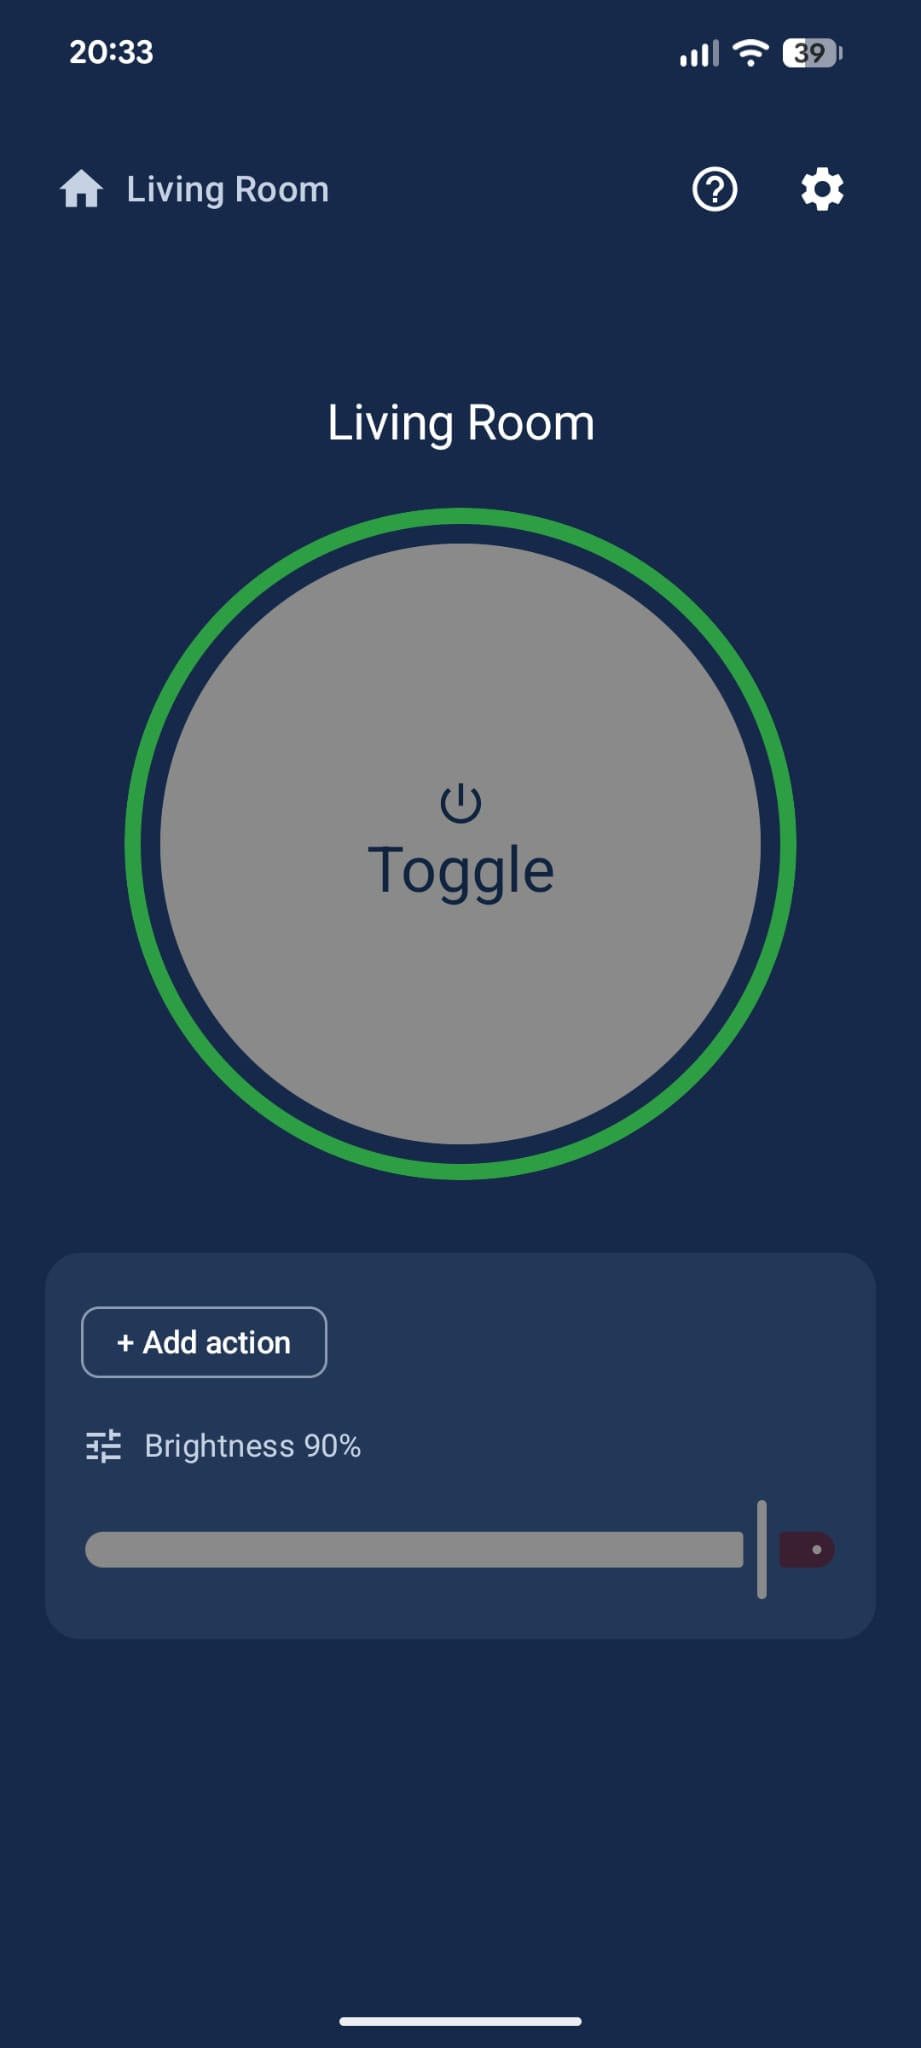
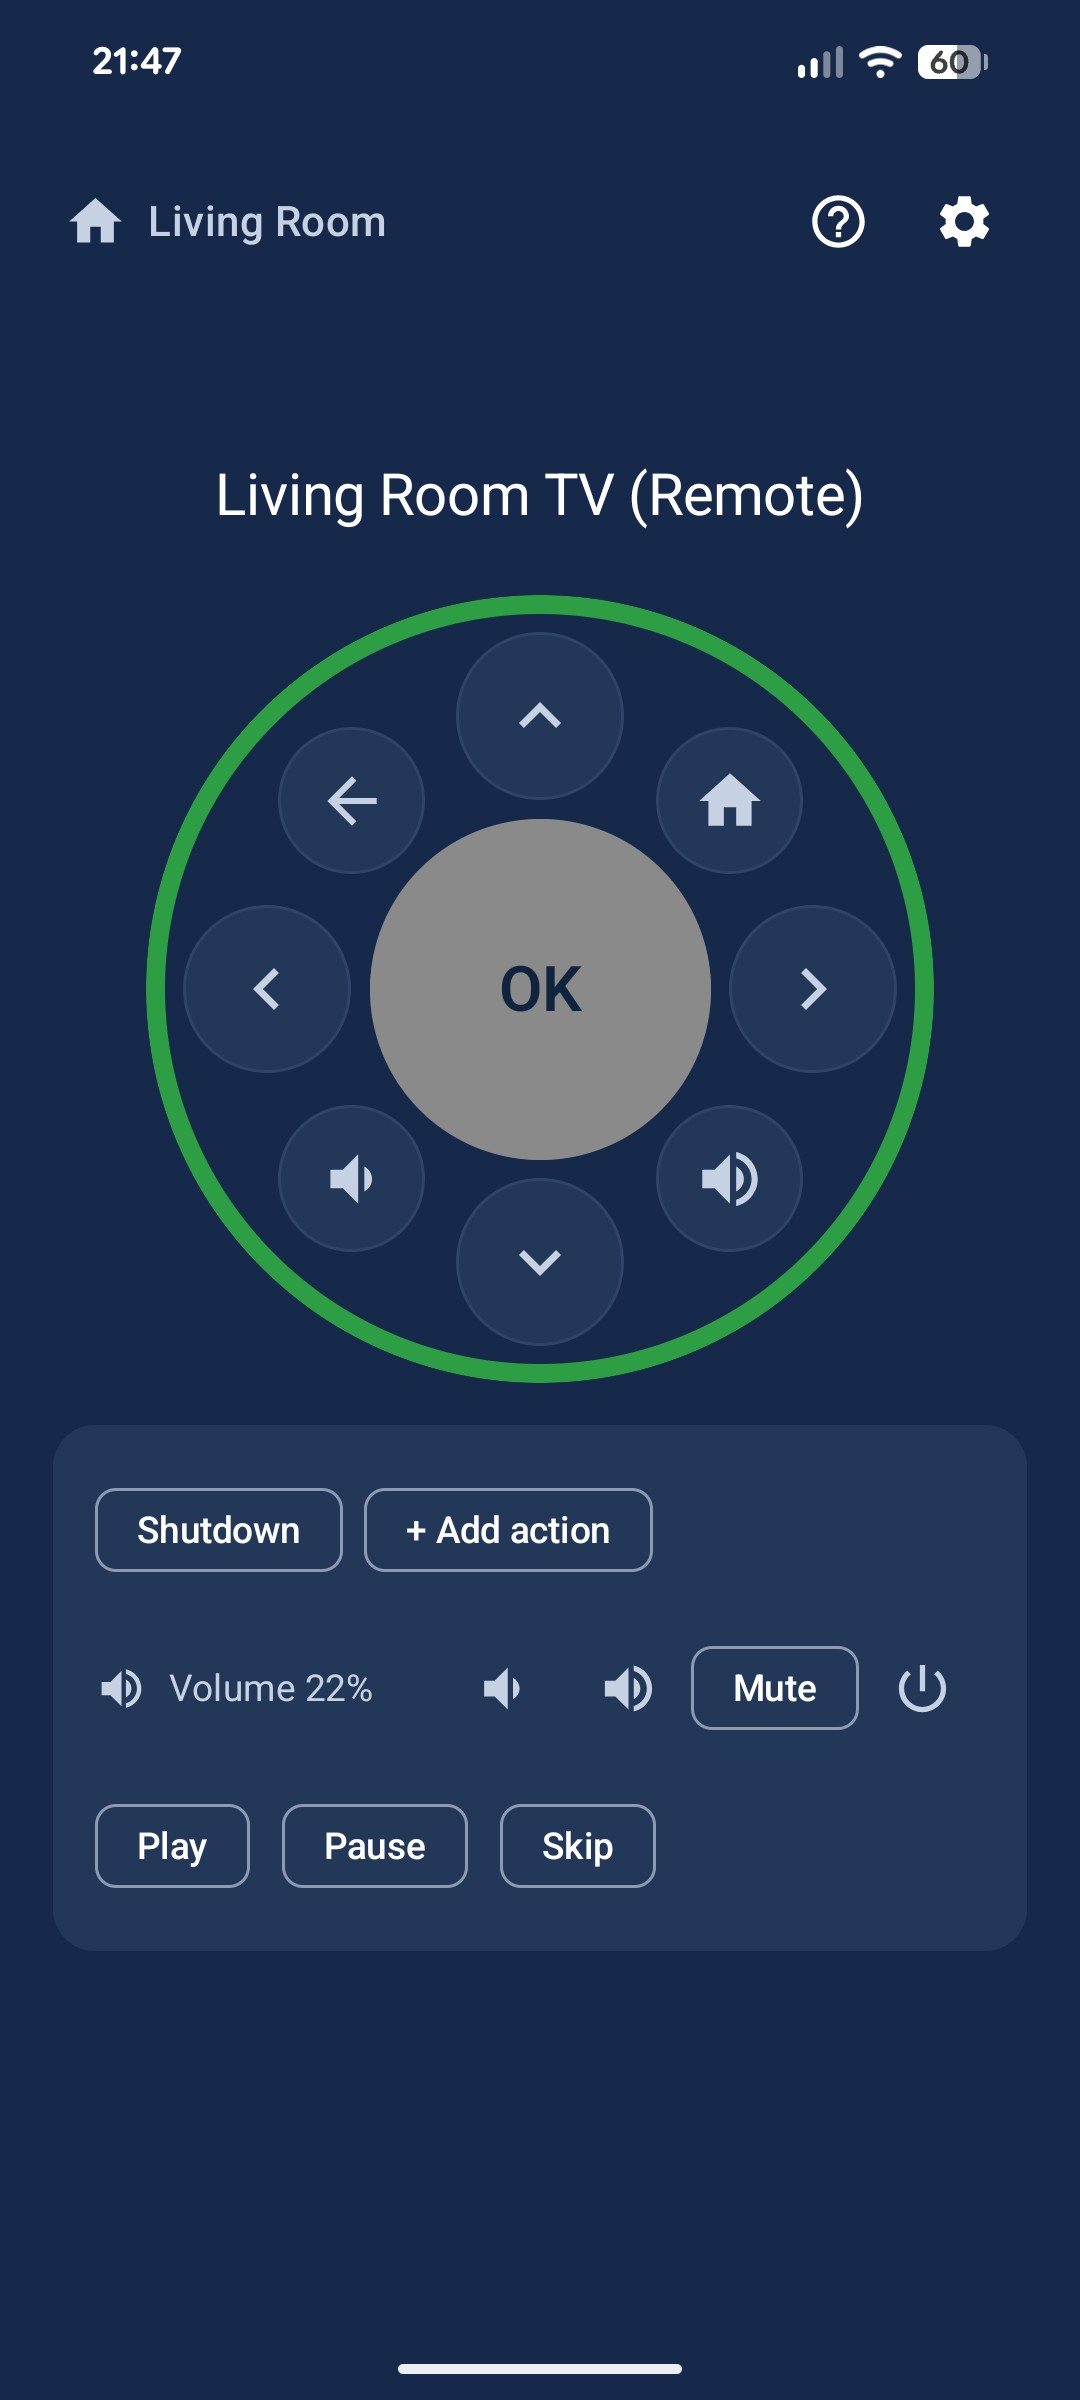
Scott's edits: ad placement in the FAQ, new hero screenshot
- FAQ: the ad answer now says where the ad actually is (settings page only,
  none on the main screen)
- app-screenshot.jpg replaced with the Living Room TV remote screen
  (1080x2400, was 921x2048)

Kept consistent with those two edits:
- the FAQPage JSON-LD answer is regenerated from the same string, because
  Google requires the marked-up answer to match the visible copy exactly
- img width/height updated to the real 1080x2400 and alt text rewritten for
  the TV remote, not the old light screen
- og-image.jpg regenerated from the new screenshot (tools/make-og-image.py)

diff --git a/index.html b/index.html
@@ -414,7 +414,7 @@
           "name": "Is it free? Are there ads?",
           "acceptedAnswer": {
             "@type": "Answer",
-            "text": "Free, with ads. There is no subscription, nothing to buy in the app, and no account."
+            "text": "Free, with an ad on the settings page only. No ads on the main screen. There is no subscription, nothing to buy in the app, and no account."
           }
         },
         {
@@ -471,7 +471,7 @@
           <div class="crosshair crosshair-v" aria-hidden="true"></div>
           <div class="phone">
             <div class="phone-screen">
-              <img src="app-screenshot.jpg" width="921" height="2048" alt="Pointly app screenshot — the Living Room light locked on with a green ring around the Toggle button, a brightness slider at 90% and an Add action button">
+              <img src="app-screenshot.jpg" width="1080" height="2400" alt="Pointly locked onto the Living Room TV: the reticle ring is green around a circular D-pad with OK in the centre, and the panel below shows Volume 22%, Mute, Play, Pause and Skip">
             </div>
           </div>
           <span class="reticle-label label-search" aria-hidden="true">SEARCHING</span>
@@ -649,7 +649,7 @@
         </div>
         <div class="faq-item">
           <h3>Is it free? Are there ads?</h3>
-          <p>Free, with ads. There is no subscription, nothing to buy in the app, and no account.</p>
+          <p>Free, with an ad on the settings page only. No ads on the main screen. There is no subscription, nothing to buy in the app, and no account.</p>
         </div>
         <div class="faq-item">
           <h3>Is this an official Home Assistant app?</h3>
